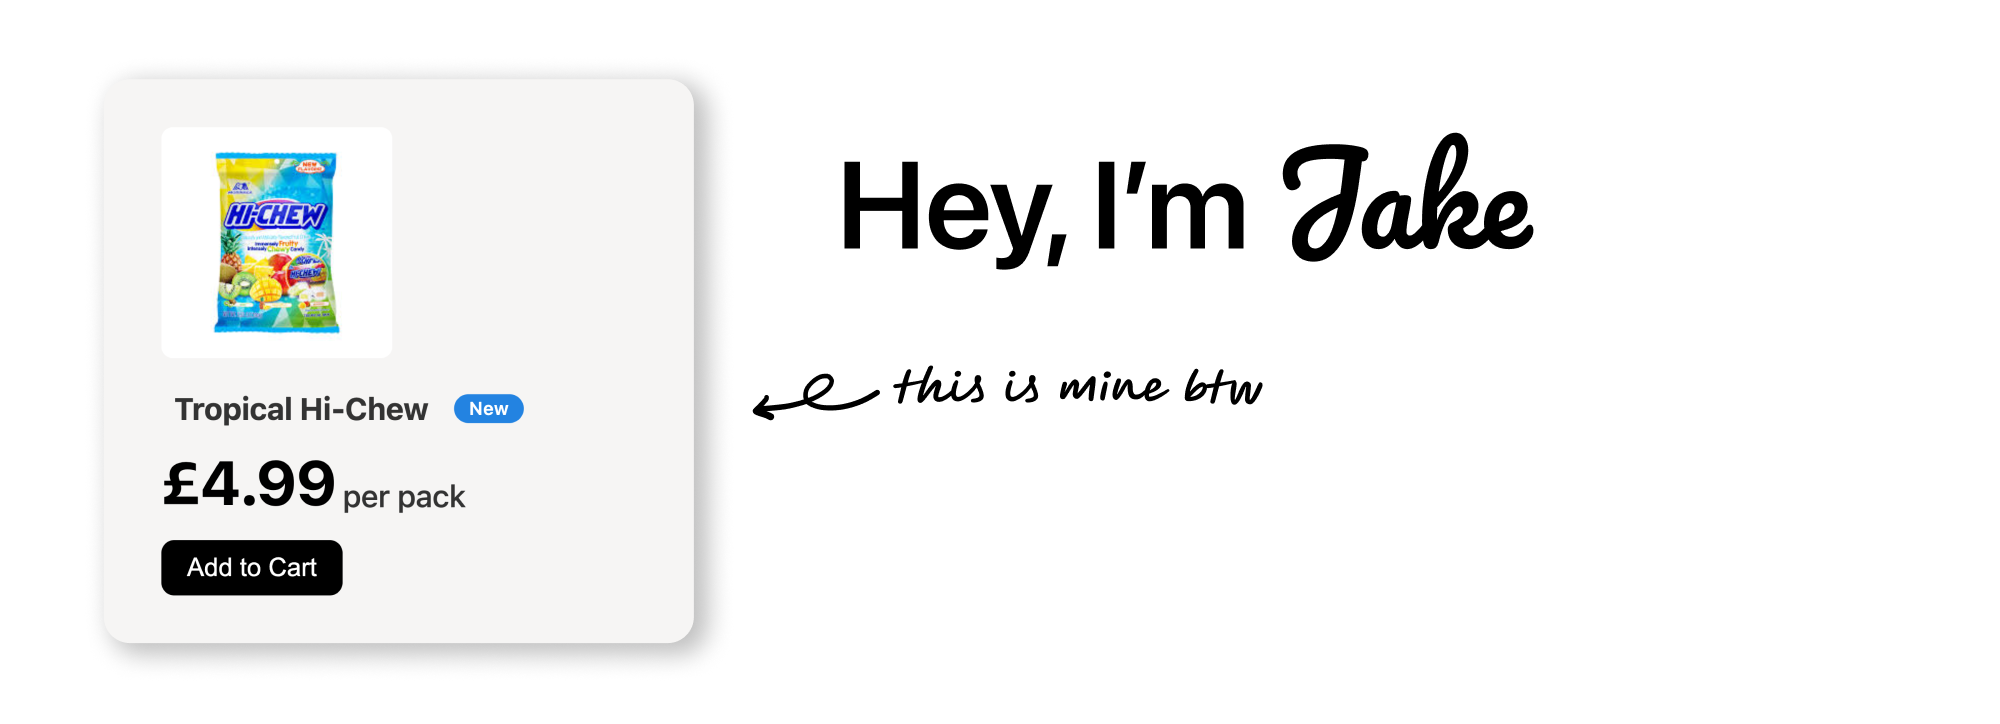
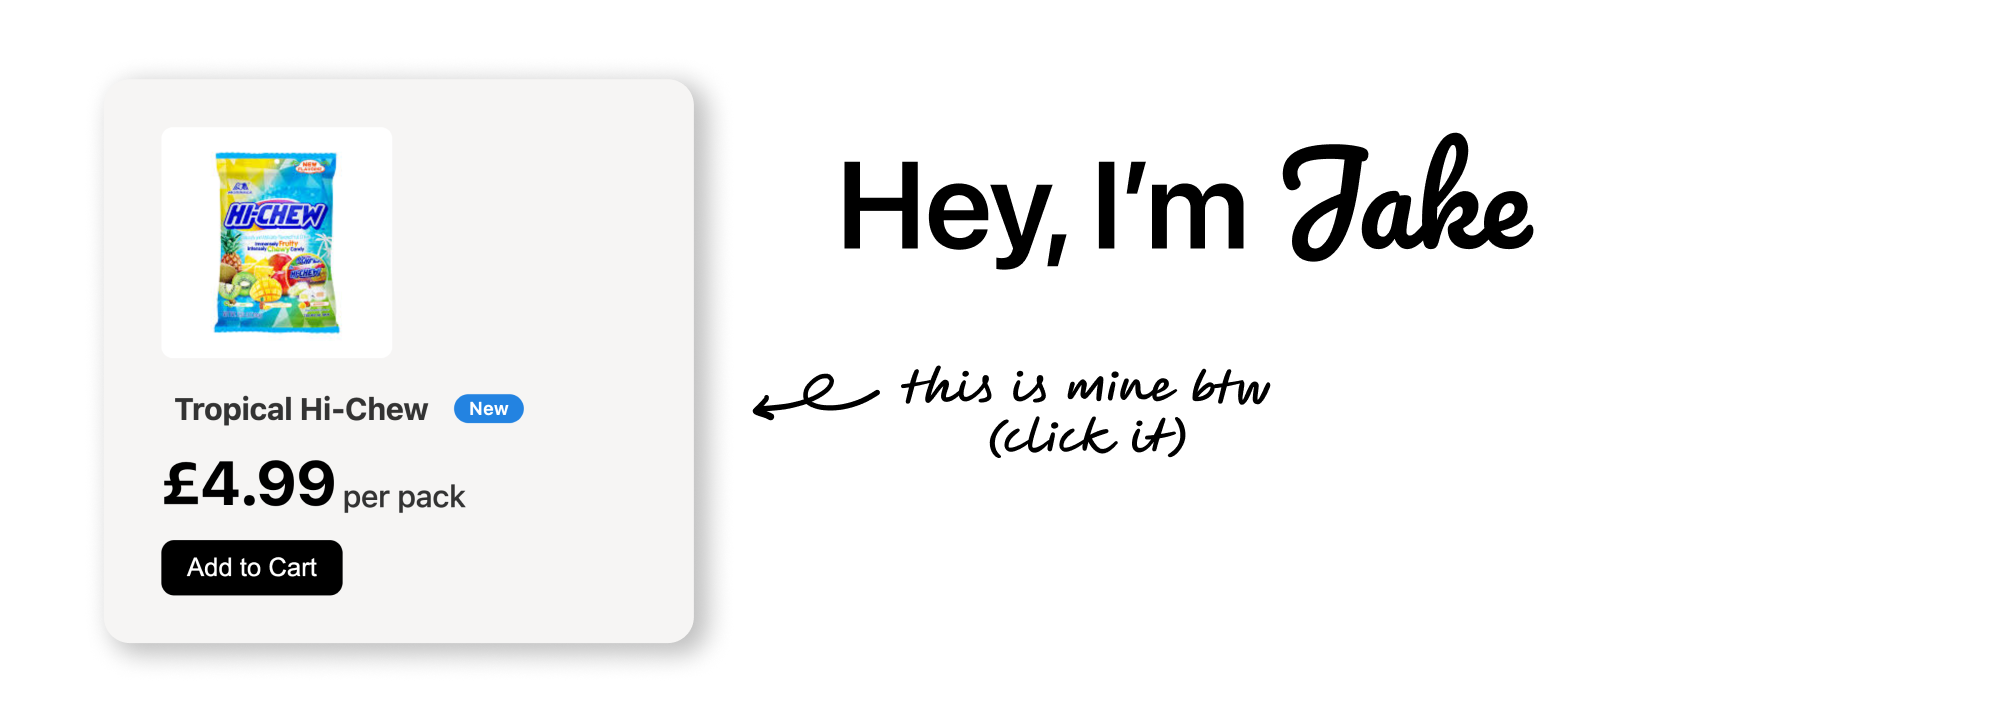
'Updated for clickable link to Github repo'

Changed region(s): [[0.434, 0.5166, 0.651, 0.6381]]

diff --git a/README.md b/README.md
@@ -1,4 +1,4 @@
-![image](./GithubBanner.png)
+[![image](./GithubBanner.png)](https://github.com/definiteconfusion/notion-components)
 
 # About Me 👨
 I am a passionate software engineer with expertise in Python and web development. I love building scalable and efficient applications that solve real-world problems... sorta
